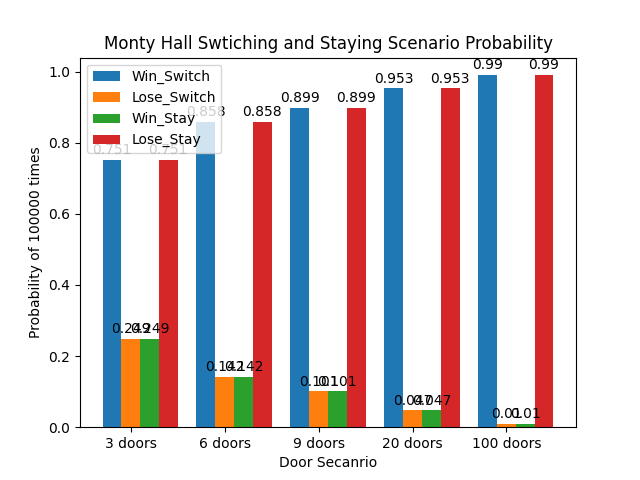
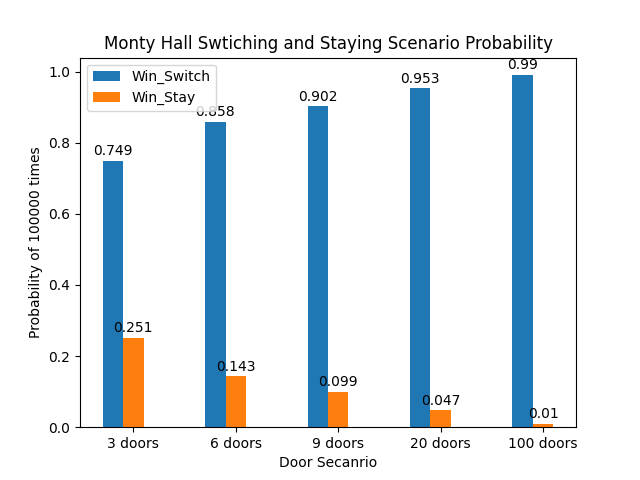
Update a plot function
plot_probability_distribution

Changed region(s): [[0.125, 0.125, 0.9062, 0.9375]]

diff --git a/Project 1/project1.py b/Project 1/project1.py
@@ -3,6 +3,7 @@ import matplotlib.pyplot as plt
 import numpy as np
 import csv
 import pandas as pd
+import plotly.graph_objects as go
 
 def montyHall(numDoors, rule, trial):
     #Create a set of doors by using pre-set number of doors
@@ -64,19 +65,18 @@ def write_and_plot(list1,list2,list3,list4):
 
 
 #Create a bar chart by using the result
-def barChart(list1,list2,list3,list4):
+def barChart(list1,list2):
     fieldNames=['3 doors', '6 doors', '9 doors', '20 doors', '100 doors']
     width = 0.2
     x_list1 = [x-width for x in range(len(list1))]
     x_list2 = [x for x in range(len(list2))]
-    x_list3 = [x+width for x in range (len(list3))]
-    x_list4 = [x+width*2 for x in range (len(list4))]
+    # x_list3 = [x+width for x in range (len(list3))]
+    # x_list4 = [x+width*2 for x in range (len(list4))]
 
     fig,ax = plt.subplots()
     bar1 = ax.bar(x_list1,list1,width,label='Win_Switch')
-    bar2 = ax.bar(x_list2,list2,width,label='Lose_Switch')
-    bar3 = ax.bar(x_list3,list3,width,label='Win_Stay')
-    bar4 = ax.bar(x_list4,list4,width,label='Lose_Stay')    
+    bar2 = ax.bar(x_list2,list2,width,label='Win_Stay')
+   
 
 
     def autolabel(bars, data):
@@ -87,8 +87,8 @@ def barChart(list1,list2,list3,list4):
     #label the bar
     autolabel(bar1,list1)
     autolabel(bar2,list2)
-    autolabel(bar3,list3)
-    autolabel(bar4,list4)
+    # autolabel(bar3,list3)
+    # autolabel(bar4,list4)
 
     x = np.arange(len(fieldNames))
     ax.set_xticks(x)
@@ -112,31 +112,89 @@ def plot_table(fileName):
 
 def print_Result(list1,list2,list3,list4):
     write_and_plot(list1,list2,list3,list4)
-    barChart(list1,list2,list3,list4)
+    barChart(list1,list3)
     plt.show()
 
+def plot_probability_distribution(trial_marks, win_probabilities, num_doors, strategy):
+    # Create the figure object
+    fig = go.Figure()
+
+    last_known_value = 0  # Initialize a fallback last known value
+
+    # Iterate over each door configuration and handle data filling
+    for i, num in enumerate(num_doors):
+        current_data = win_probabilities[i]
+
+        if not current_data:  # If the list is empty
+            if i == 0 or not any(win_probabilities[:i]):  # If it's the first list or all previous lists are empty
+                current_data = [last_known_value] * len(trial_marks)  # Use the initial last known value (0 or updated)
+                print(f"No initial data for {num} doors; using zero or last known non-zero values.")
+            else:
+                # Find the last non-empty list before the current one
+                for prev_data in reversed(win_probabilities[:i]):
+                    if prev_data:
+                        last_known_value = prev_data[-1]
+                        break
+                current_data = [last_known_value] * len(trial_marks)  # Use last known value from the previous non-empty list
+        else:
+            # Update the last known value from the current non-empty list
+            last_known_value = current_data[-1]
+            # Ensure the list covers all trial marks by extending the last known value
+            additional_length = len(trial_marks) - len(current_data)
+            current_data.extend([last_known_value] * additional_length)
+
+        # Add the trace with the adjusted or verified data
+        fig.add_trace(go.Scatter(
+            x=trial_marks, 
+            y=current_data,
+            mode='lines',  # Set mode to lines and markers
+            name=f'{num} doors',
+            #marker=dict(size=0.5, opacity=0.8)
+        ))
+
+    # Update the layout to add titles and axis labels
+    fig.update_layout(
+        title=f'Win Probability Convergence Over Trials - {strategy} Strategy',
+        xaxis_title='Number of Trials',
+        yaxis_title='Win Probability',
+        legend_title='Number of Doors',
+        plot_bgcolor='white'  # Set background color to white for better visibility
+    )
+    
+    # Check if any traces were added to figure
+    if not fig.data:
+        print("No data available to plot after processing.")
+        return  # Exit if no data to plot
+    
+    # Show the figure
+    fig.show()
 
 def main():
     #Number of doors
     numDoors = [3,6,9,20,100]
     #simulation times
     trials = 100000
+    #array for tracing
+    trace1 =[[] for _ in numDoors]
+    trace2 =[[] for _ in numDoors]
     #alway switch probaility
     winProbability1=[]
     loseProbability1=[]
     #always Stay probability
     winProbability2=[]
     loseProbability2 =[]
+    trial_marks = list(range(1, trials + 1))
 
-    for n in numDoors:
-        print(f"Doors = {n}")
+    for index, val in enumerate(numDoors):
+        print(f"Doors = {val}")
         countWin1 = 0
         countLose1 = 0
         #Always Switching Case:
         for x in range(trials):
-            if (montyHall(n, 'switch', x)):
-                #print("Switch")
+            if (montyHall(val, 'switch', x)):
                 countWin1 +=1
+                current_probability = countWin1 / (x + 1)
+                trace1[index].append(current_probability)
             else:
                 countLose1 +=1
         
@@ -152,26 +210,22 @@ def main():
         countWin2 = 0
         countLose2 = 0
         for x in range(trials):
-            if (montyHall(n,'stay',x)):
+            if (montyHall(val,'stay',x)):
                 countWin2 +=1
+                current_probability = countWin2 / (x + 1)
+                trace2[index].append(current_probability)
             else:
                 countLose2 +=1
+        
         winProbability2.append(round(countWin2/trials,3))
         loseProbability2.append(round(countLose2/trials,3))
-        # print("Door number: ", n)
-        # print("Win: ", countWin2)
-        # print("Lose: ", countLose2)
-        # print("Always Staying Win probability: ", countWin2/times)
-        # winProbability2.append( countWin2/times)
-        # loseProbability2.append(countLose2/times)
     
     print(f"{winProbability1=}")
-    print(f"{loseProbability1=}")
     print(f"{winProbability2=}")
-    print(f"{loseProbability2=}")
 
     #print the result
     print_Result(winProbability1,loseProbability1,winProbability2,loseProbability2)
-
+    plot_probability_distribution(trial_marks,trace1,numDoors, 'Switch')
+    plot_probability_distribution(trial_marks,trace2,numDoors, 'Stay')
 if __name__ == "__main__":
     main()
